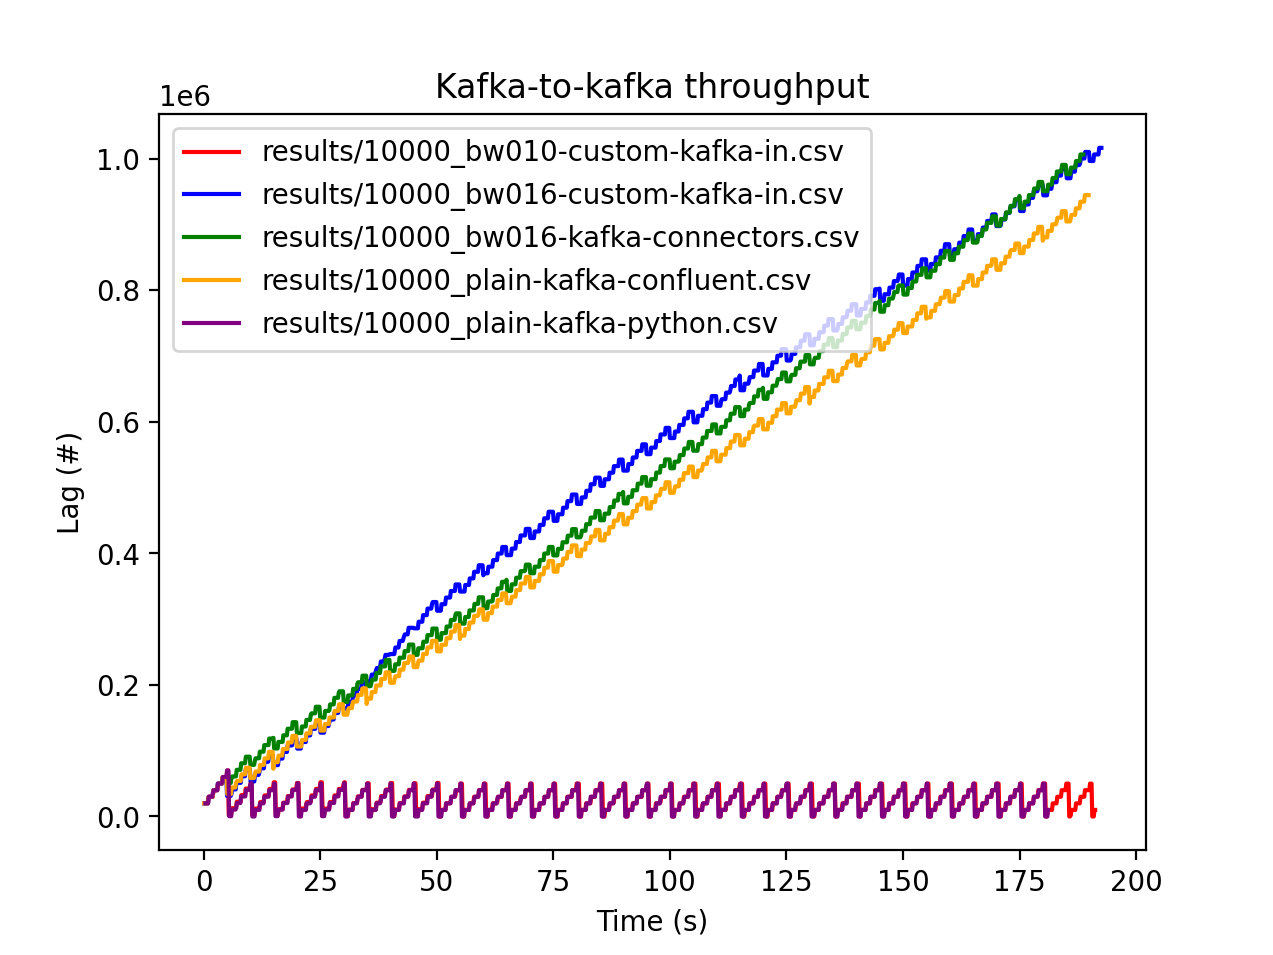
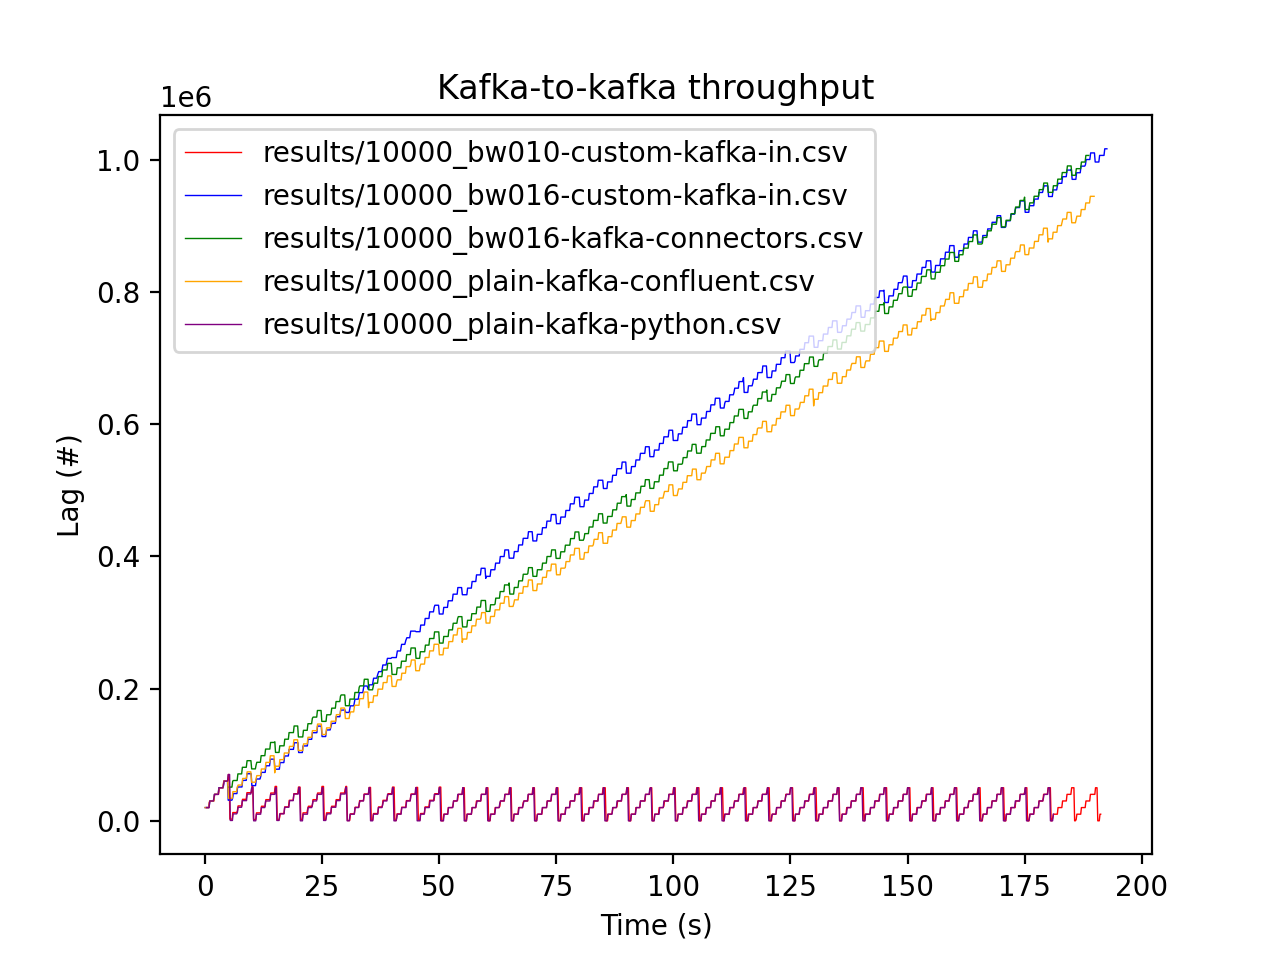
Slightly better plot

diff --git a/scripts/plot.py b/scripts/plot.py
@@ -1,5 +1,4 @@
 import csv
-import glob
 import argparse
 
 from matplotlib import pyplot as plt
@@ -35,7 +34,7 @@ colors = ['red', 'blue', 'green', 'orange', 'purple', 'black']
 for i, file_data in enumerate(data):
     elapsed = file_data['elapsed']
     lag = file_data['lag']
-    ax.plot(elapsed, lag, color=colors[i], label=file_data['name'])
+    ax.plot(elapsed, lag, color=colors[i], label=file_data['name'], linewidth=0.5)
 
 # Set labels and title for the plot
 ax.set_xlabel('Time (s)')
@@ -47,6 +46,6 @@ ax.legend()
 
 # Display or save the plot
 if args.output:
-    plt.savefig(args.output, dpi=199)
+    plt.savefig(args.output, dpi=200)
 else:
     plt.show()
